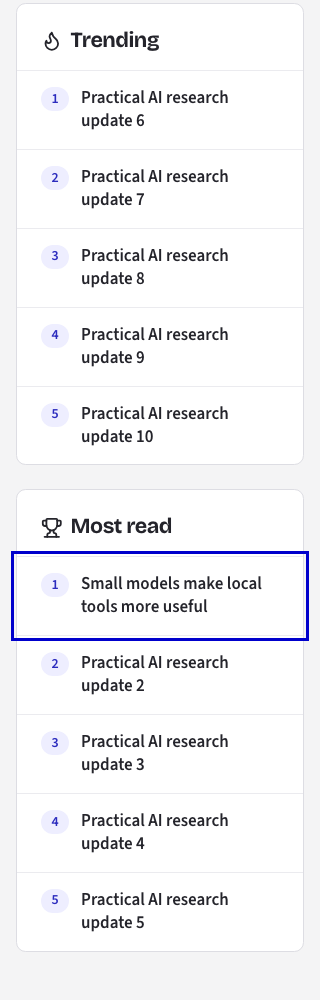
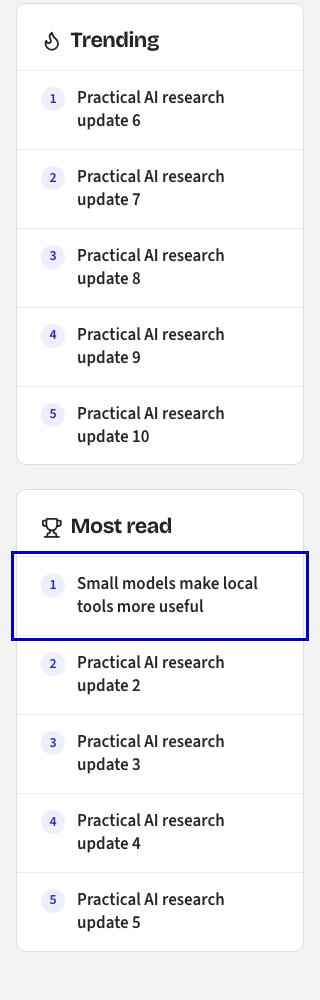
Make widget ranking badges circular

diff --git a/hacksnap/web/app/globals.css b/hacksnap/web/app/globals.css
@@ -623,10 +623,9 @@ body:has(#browse-content) .skip-browse {
   align-items: center;
   justify-content: center;
   flex: none;
-  min-width: 1.75rem;
-  min-height: 1.5rem;
-  padding: 0 var(--space-1);
-  border-radius: 999px;
+  width: 1.5rem;
+  height: 1.5rem;
+  border-radius: 50%;
   background: var(--accent-soft);
   color: color-mix(in srgb, var(--accent) 55%, var(--muted));
   font-size: var(--text-sm);
